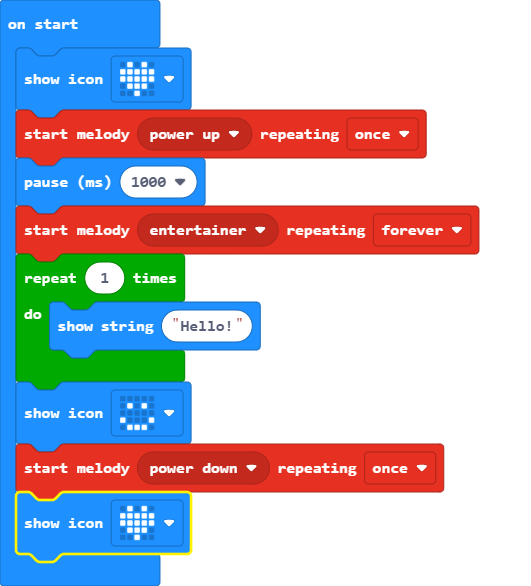
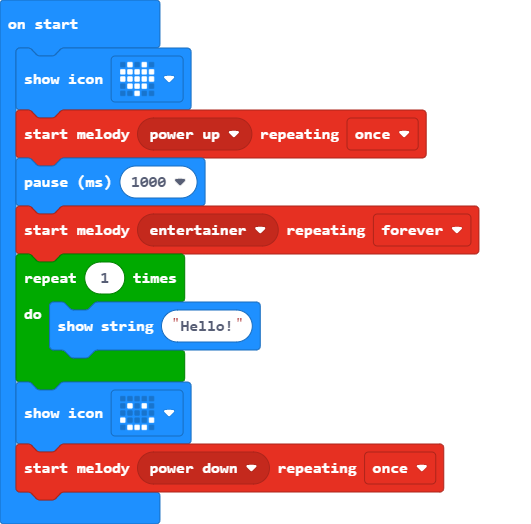
Update main.blocks, main.ts

diff --git a/main.ts b/main.ts
@@ -7,4 +7,3 @@ for (let index = 0; index < 1; index++) {
 }
 basic.showIcon(IconNames.Happy)
 music.startMelody(music.builtInMelody(Melodies.PowerDown), MelodyOptions.Once)
-basic.showIcon(IconNames.Heart)
